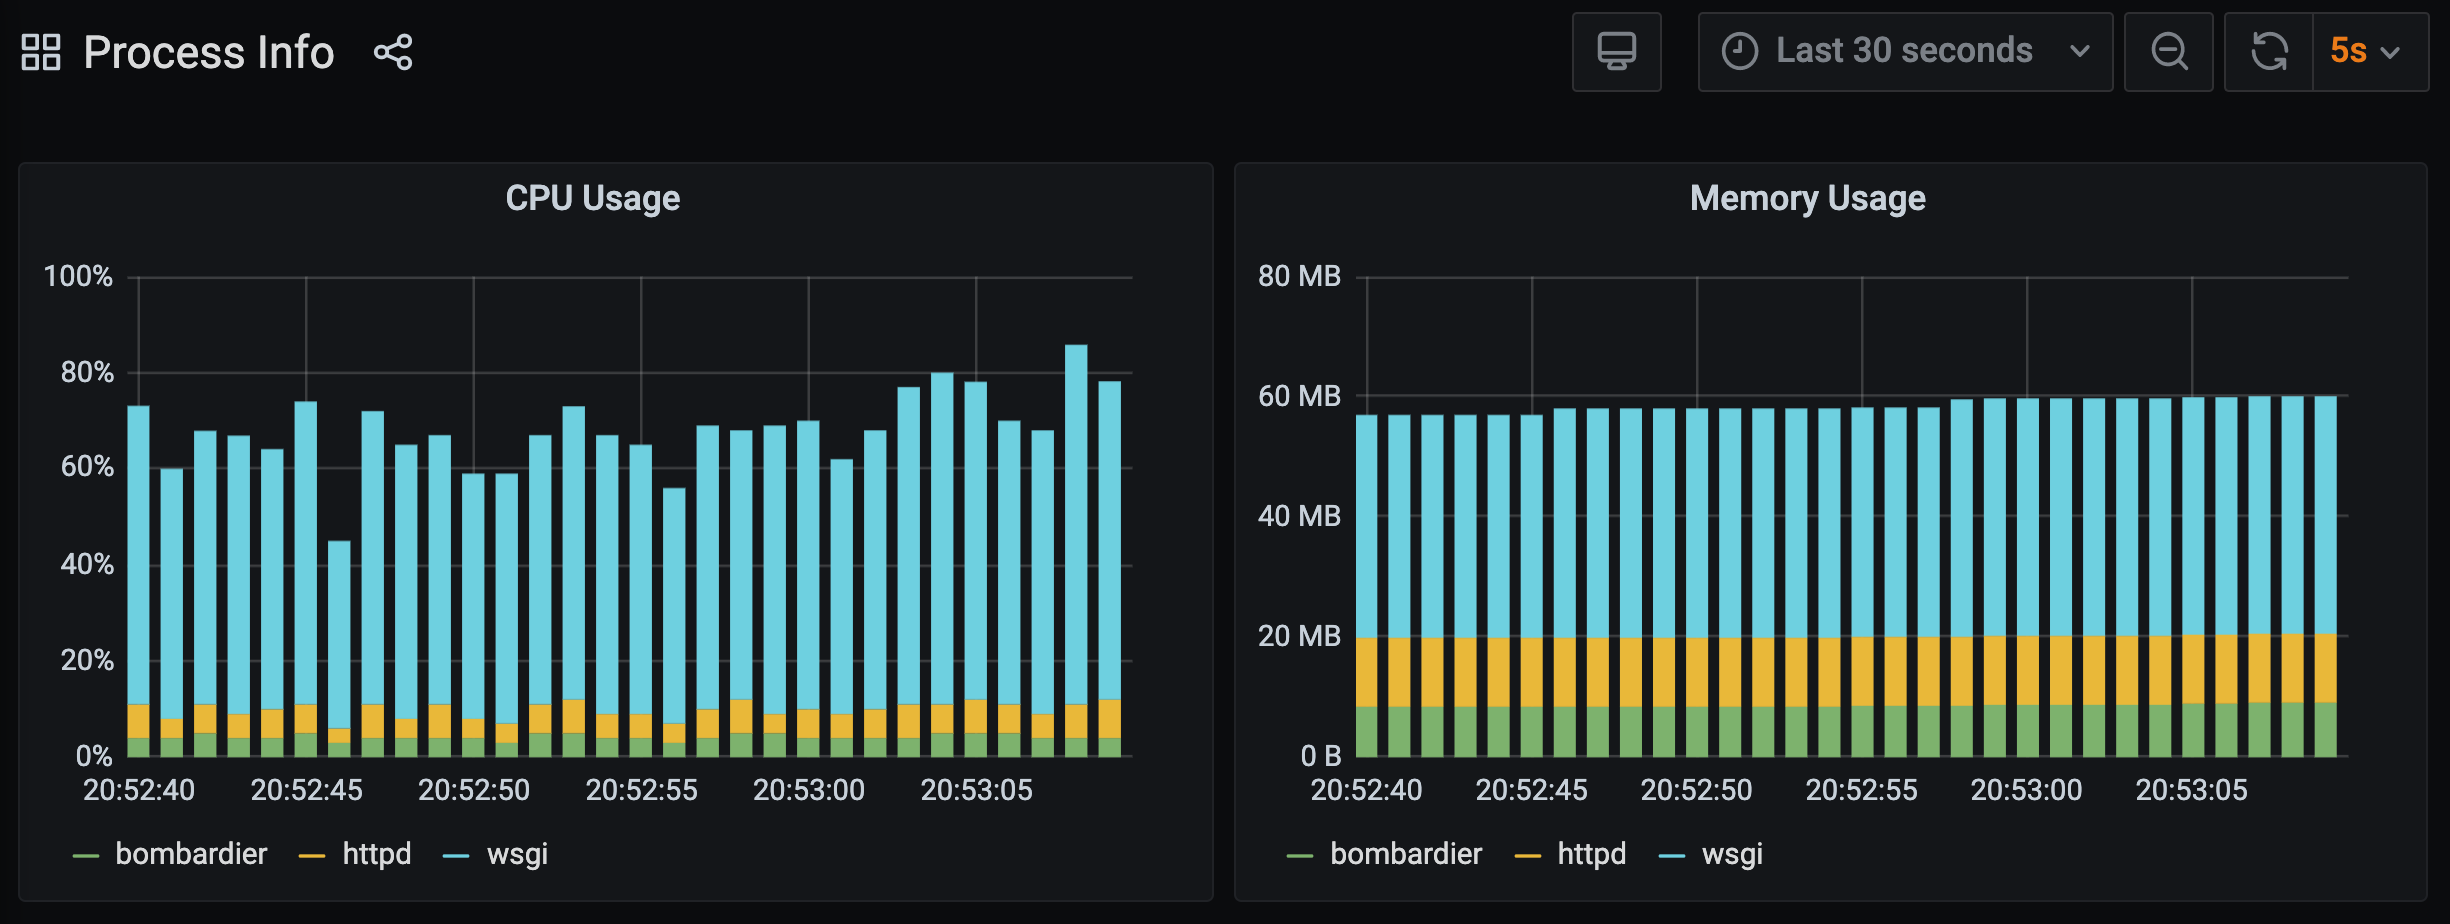
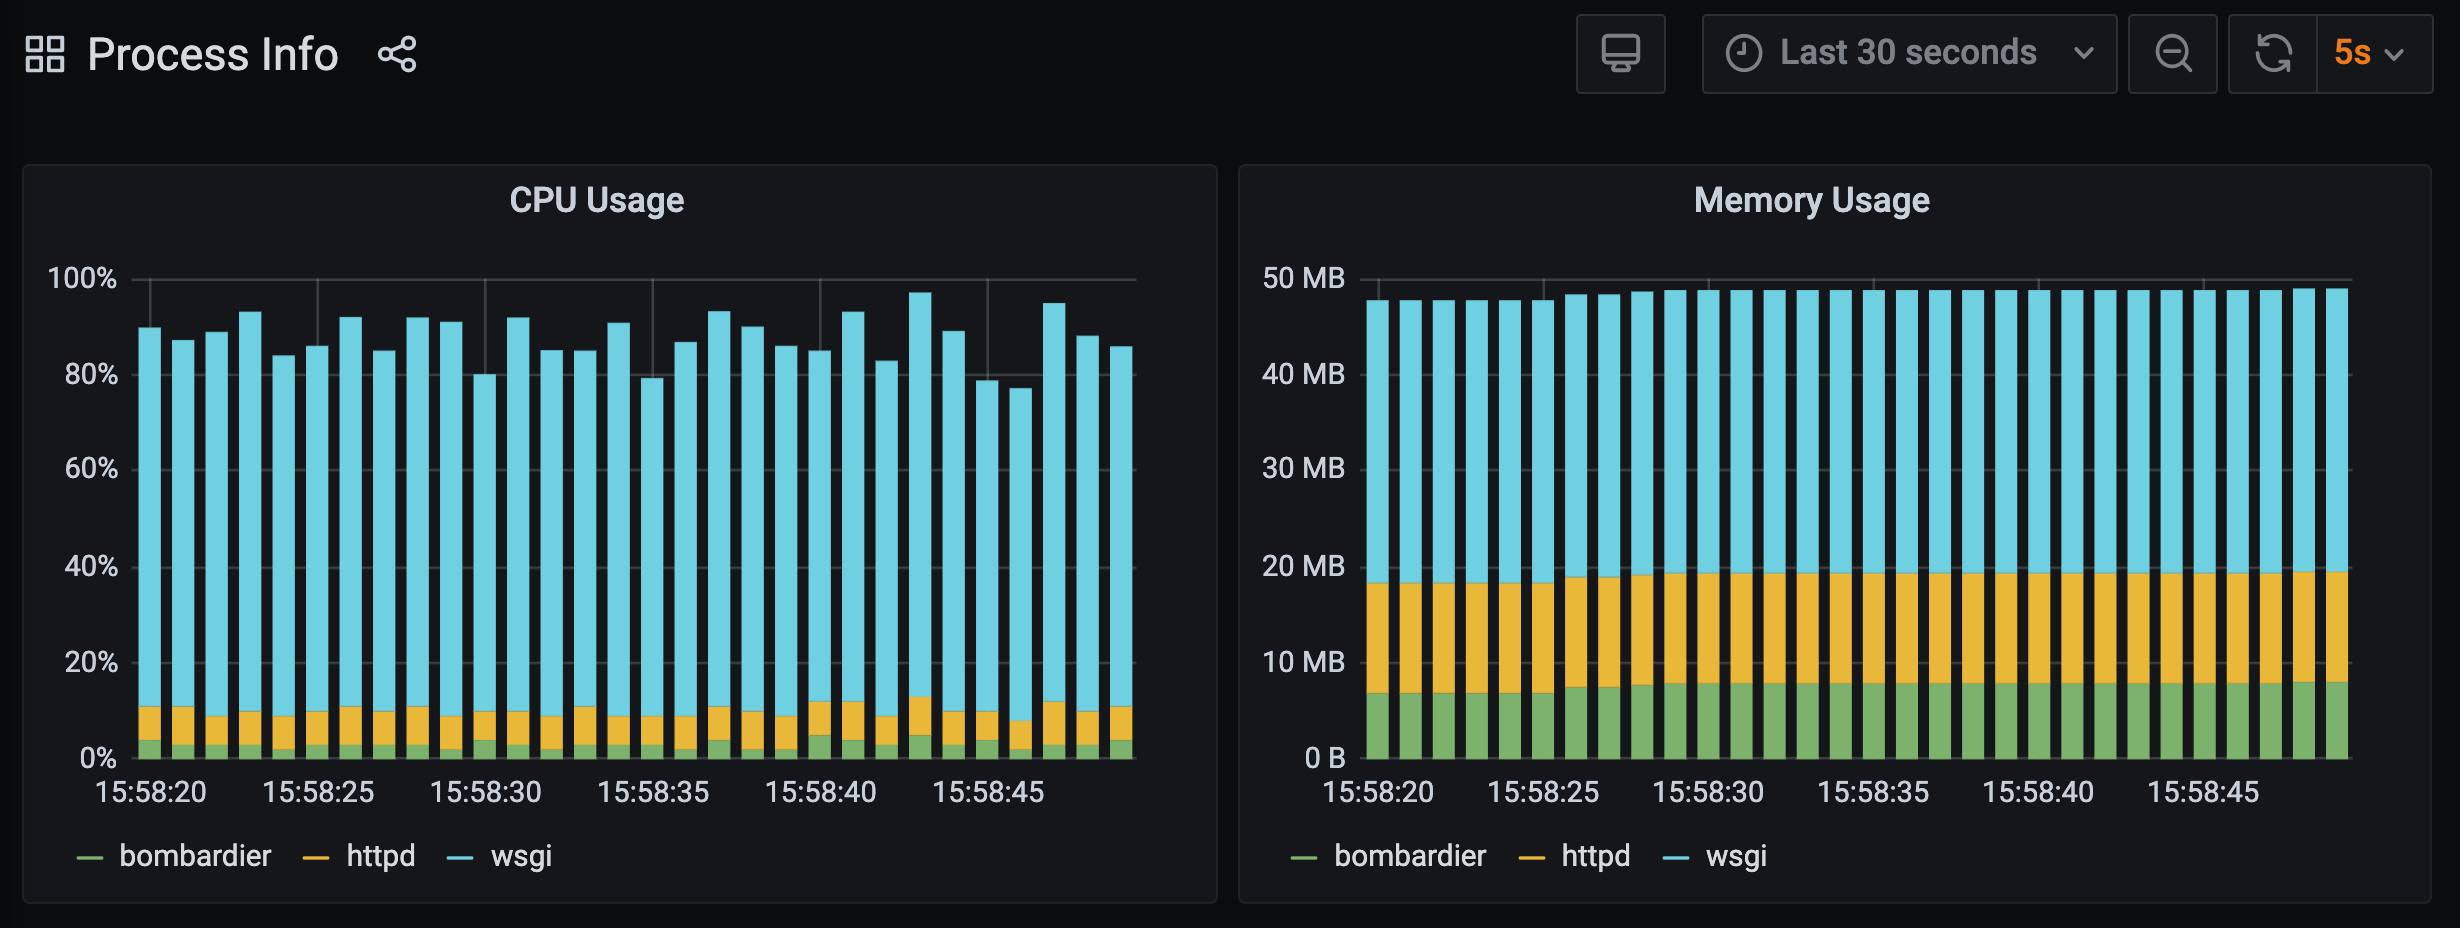
Update commentary, screenshots and commands.

diff --git a/workshop/content/exercises/07-bogus-benchmarks.md b/workshop/content/exercises/07-bogus-benchmarks.md
@@ -9,7 +9,7 @@ command: gunicorn --pythonpath hello-world-v5 wsgi
 Generate the HTTP traffic using `bombardier`:
 
 ```terminal:execute
-command: bombardier -d 120s -c 3 http://localhost:8000
+command: bombardier -d 180s -c 3 http://localhost:8000
 session: 2
 ```
 
@@ -26,9 +26,9 @@ As before with `mod_wsgi`, you will see the metrics for the requests being recei
 
 ![](hello-world-v5-2-raw-requests.png)
 
-Compare the results against what we got for `mod_wsgi` and you may at this point be thinking why I am bothering even considering using `mod_wsgi`, as `gunicorn` is showing better performance.
+Compare the results against what we got for `mod_wsgi` and you may at this point be thinking why you would consider using `mod_wsgi`, as `gunicorn` is likely showing slightly better performance.
 
-Before you abandon working your way through this workshop, this is where you need to realise that pretty well all benchmarks you might find comparing Python WSGI servers are bogus for one reason or another.
+Before you abandon this workshop and `mod_wsgi`, this is where you need to realise that pretty well all benchmarks you might find comparing Python WSGI servers are bogus for one reason or another.
 
 The problem with running benchmarks comparing Python WSGI servers is ensuring that you are doing a like for like comparison, and where you use the default options a WSGI server uses, that isn't going to happen.
 
@@ -48,7 +48,7 @@ command: mod_wsgi-express start-server hello-world-v5/wsgi.py --log-to-terminal 
 Start up `bombardier` to generate the requests:
 
 ```terminal:execute
-command: bombardier -d 120s -c 3 http://localhost:8000
+command: bombardier -d 180s -c 3 http://localhost:8000
 session: 2
 ```
 
@@ -83,7 +83,7 @@ command: mod_wsgi-express start-server hello-world-v5/wsgi.py --log-to-terminal 
 Start up `bombardier` to generate the requests:
 
 ```terminal:execute
-command: bombardier -d 120s -c 3 http://localhost:8000
+command: bombardier -d 180s -c 3 http://localhost:8000
 session: 2
 ```
 
@@ -94,9 +94,11 @@ name: Grafana
 url: {{ingress_protocol}}://{{session_namespace}}-grafana.{{ingress_domain}}{{ingress_port_suffix}}/d/raw-requests?orgId=1&refresh=5s
 ```
 
-The performance from `mod_wsgi` with this configuration is quite a bit better than `gunicorn`.
+The performance from `mod_wsgi` with this configuration is quite a bit better than `gunicorn`. Do keep in mind though that when using `gunicorn` it is actually recommended you place it behind an `nginx` proxy. This extra layer will mean that overall `gunicorn` performance could be worse than what we got here. For `mod_wsgi` you don't need an additional proxy in front, as Apache already provides the isolation required that `nginx` is recommended for when using `gunicorn`.
 
-Although this mode provides much better performance, you should only use it when you have a need for it, as you do loose various builtin protections that daemon mode provides. You also still need to ensure you tune the configuration correctly for your WSGI application else you could end up with worse performance.
+![](hello-world-v5-4-raw-requests.png)
+
+Now, although embedded mode provides much better performance, you should only use it when you have a need for it, as you do loose various builtin protections that daemon mode provides. You also still need to ensure you tune the configuration correctly for your WSGI application else you could end up with worse performance.
 
 Overall the aim of the defaults for `mod_wsgi-express` and daemon mode is to provide an out of the box configuration more suitable to a typical Python web application implemented using one of the many high level Python web frameworks, talking to a backend database for site data storage. It defaults to using multithreading to handle concurrent requests, rather than processes, thus keeping memory usage down.
 
@@ -108,7 +110,7 @@ So ignore Python benchmarks, including the one used to demonstrate the point abo
 
 In order to handle concurrent requests at the same time on the same machine, you are going to have to scale up either the number of processes or threads, but which way you scale things will depend on the balance your application has between being CPU bound and I/O bound, and how much CPU and memory resources you have. Beyond a certain point you will have no choice but to start scaling across multiple hosts and it will not be possible to do everything with a single host.
 
-Even then it isn't that simple though, as your web application isn't going to respond to the one specific HTTP request all the time. The profile of different HTTP requests you handle can vary quite significantly, and trying to handle them all in the one Python WSGI server can be detrimental to the overall server performance. Often it is better to use multiple distinct instances of the Python WGSI server, each configured differently, and proxy HTTP requests with a specific runtime profile to a WSGI server with matching configuration.
+Even then it isn't that simple though, as your web application isn't going to respond to the one specific HTTP request all the time. The profile of different HTTP requests you handle can vary quite significantly, and trying to handle them all in the one Python WSGI server can be detrimental to the overall server performance. Often it is better to use multiple distinct instances of the Python WSGI server, each configured differently, and proxy HTTP requests with a specific runtime profile to a WSGI server with matching configuration.
 
 Understanding all this is where instrumenting your WSGI application and extracting metrics is so important. So definitely use metrics to evaluate the performance of your real Python web application, but don't waste your time using them with a hello world application in order to evaluate different Python WSGI servers as it is usually not going to yield anything useful later on for when you deploy your actual application.
 

diff --git a/workshop/content/exercises/05-wsgi-application.md b/workshop/content/exercises/05-wsgi-application.md
@@ -39,7 +39,7 @@ command: mod_wsgi-express start-server hello-world-v3/wsgi_1.py --log-to-termina
 and send through a stream of requests at the rate of 1 request/sec again.
 
 ```terminal:execute
-command: bombardier -d 120s -c 1 -r 1 http://localhost:8000
+command: bombardier -d 180s -c 1 -r 1 http://localhost:8000
 session: 2
 ```
 
@@ -74,7 +74,7 @@ command: mod_wsgi-express start-server hello-world-v3/wsgi_2.py --log-to-termina
 and send through the original request load once more.
 
 ```terminal:execute
-command: bombardier -d 120s -c 3 -r 500 http://localhost:8000
+command: bombardier -d 180s -c 3 -r 500 http://localhost:8000
 session: 2
 ```
 
@@ -91,7 +91,7 @@ The metrics are still coming through, but although the response time has dropped
 
 The reason for this is that in order to properly capture the response time, as well as deal with any exceptions that may occur, the decorator and wrapper for the result returned by the WSGI application are somewhat more complicated.
 
-This highlights an important consideration when instrumenting web applications to collect metrics. That is that the instrumentation will itself add its own overheads and can affect the response times for your application where they are very small to begin with.
+This highlights an important consideration when instrumenting web applications to collect metrics. That is that the instrumentation will itself add its own overheads, and can affect the response times for your application when they are very small to begin with.
 
 Overheads can come from a couple of sources. The first is the additional CPU load from collecting the metrics. You can check out the CPU load in this case using the **Process Info** dashboard in Grafana.
 
@@ -120,7 +120,7 @@ command: mod_wsgi-express start-server hello-world-v1/wsgi.py --log-to-terminal 
 Start up `bombardier` again:
 
 ```terminal:execute
-command: bombardier -d 120s -c 3 -r 500 http://localhost:8000
+command: bombardier -d 180s -c 3 -r 500 http://localhost:8000
 session: 2
 ```
 

diff --git a/workshop/content/exercises/08-request-events.md b/workshop/content/exercises/08-request-events.md
@@ -51,7 +51,7 @@ command: mod_wsgi-express start-server hello-world-v6/wsgi.py --log-to-terminal 
 Once more start sending the requests through to the WSGI application:
 
 ```terminal:execute
-command: bombardier -d 120s -c 5 http://localhost:8000
+command: bombardier -d 180s -c 3 http://localhost:8000
 session: 2
 ```
 
@@ -62,7 +62,7 @@ name: Grafana
 url: {{ingress_protocol}}://{{session_namespace}}-grafana.{{ingress_domain}}{{ingress_port_suffix}}/d/raw-requests?orgId=1&refresh=5s
 ```
 
-What you see for throughput should be more or less the same as what we got when using the decorator. You may see a bit of an increase in the response time, which is because of the extra work being done to execute the event callback for the range of events generated for a request. This extra overhead is still going to be insignifcant in the context of a real web application, being in the order of tens of microseconds, albeit that does depend on what you may do with the events. In this case the only event we did anything with was that indicating the request had finished.
+What you see for throughput should be more or less the same as what we got when using the WSGI application decorator.
 
 Later on in the workshop we will delve more into what can be done with the events generated for requests and the extra information available included with them about each request. Before we get to that though, we are going to look at a completely different way of generating the request metrics from `mod_wsgi`.
 

diff --git a/workshop/content/exercises/06-request-batching.md b/workshop/content/exercises/06-request-batching.md
@@ -33,7 +33,7 @@ command: mod_wsgi-express start-server hello-world-v4/wsgi.py --log-to-terminal 
 and run `bomardier` to generate the requests against it.
 
 ```terminal:execute
-command: bombardier -d 120s -c 3 http://localhost:8000
+command: bombardier -d 180s -c 3 http://localhost:8000
 session: 2
 ```
 
@@ -49,8 +49,6 @@ url: {{ingress_protocol}}://{{session_namespace}}-grafana.{{ingress_domain}}{{in
 You should see that the throughput achieved is more. Although we did remove the cap on the maximum rate at which requests could be sent this isn't the reason. The increase is due to the reduction in overhead by batching up metrics and only sending them periodically.
 
 ![](hello-world-v4-raw-requests.png)
-
-The response time in this test is also improved, however, it isn't all good news.
 
 The problem now is that due to the larger number of requests, we get a big spike in the response time coinciding with when the metrics are being reported to InfluxDB.
 
@@ -92,7 +90,7 @@ command: mod_wsgi-express start-server hello-world-v5/wsgi.py --log-to-terminal 
 Send through the requests:
 
 ```terminal:execute
-command: bombardier -d 120s -c 3 http://localhost:8000
+command: bombardier -d 180s -c 3 http://localhost:8000
 session: 2
 ```
 

diff --git a/workshop/content/exercises/03-timing-decorator.md b/workshop/content/exercises/03-timing-decorator.md
@@ -48,7 +48,7 @@ command: mod_wsgi-express start-server hello-world-v2/wsgi_1.py --log-to-termina
 To simulate a batch of HTTP requests being sent to the WSGI application, the `bombardier` HTTP benchmarking program can be used. Run in the second terminal:
 
 ```terminal:execute
-command: bombardier -d 120s -c 3 -r 500 http://localhost:8000
+command: bombardier -d 180s -c 3 -r 500 http://localhost:8000
 session: 2
 ```
 

diff --git a/workshop/content/exercises/04-python-generators.md b/workshop/content/exercises/04-python-generators.md
@@ -33,7 +33,7 @@ command: mod_wsgi-express start-server hello-world-v2/wsgi_2.py --log-to-termina
 To make things clearer, this time we will send HTTP requests at a rate of only 1 request/sec.
 
 ```terminal:execute
-command: bombardier -d 120s -c 1 -r 1 http://localhost:8000
+command: bombardier -d 180s -c 1 -r 1 http://localhost:8000
 session: 2
 ```
 
